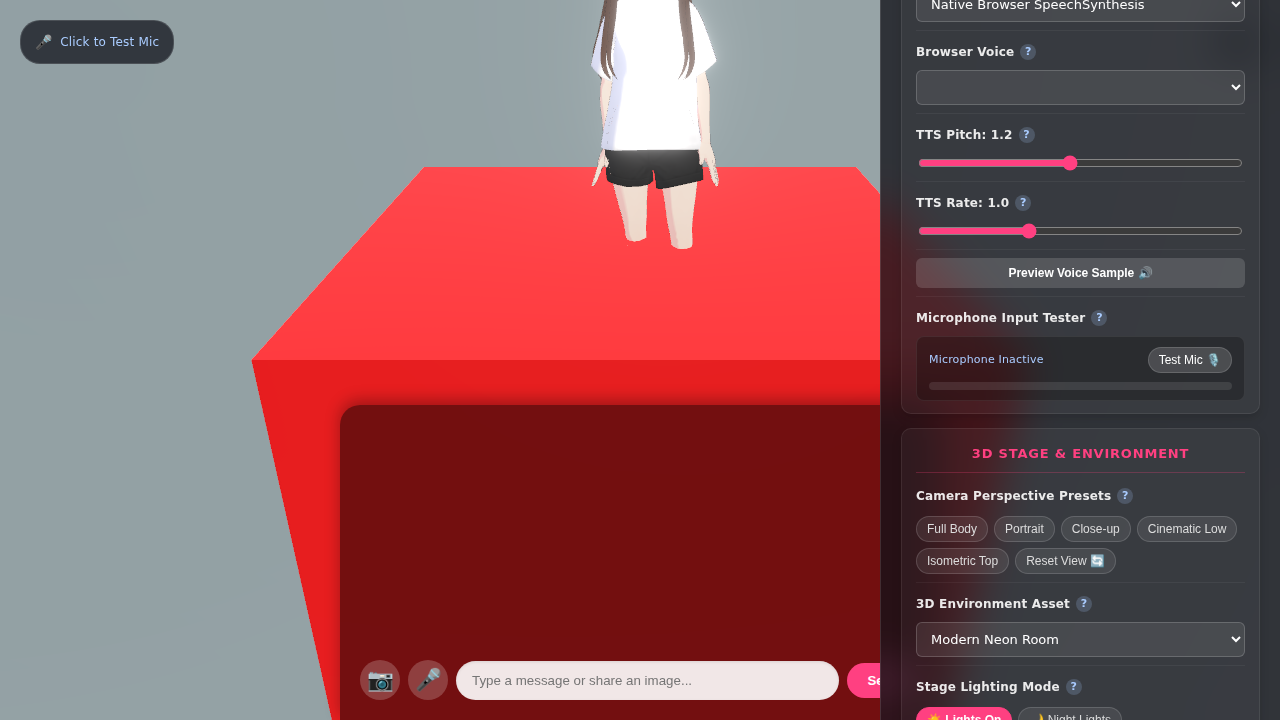
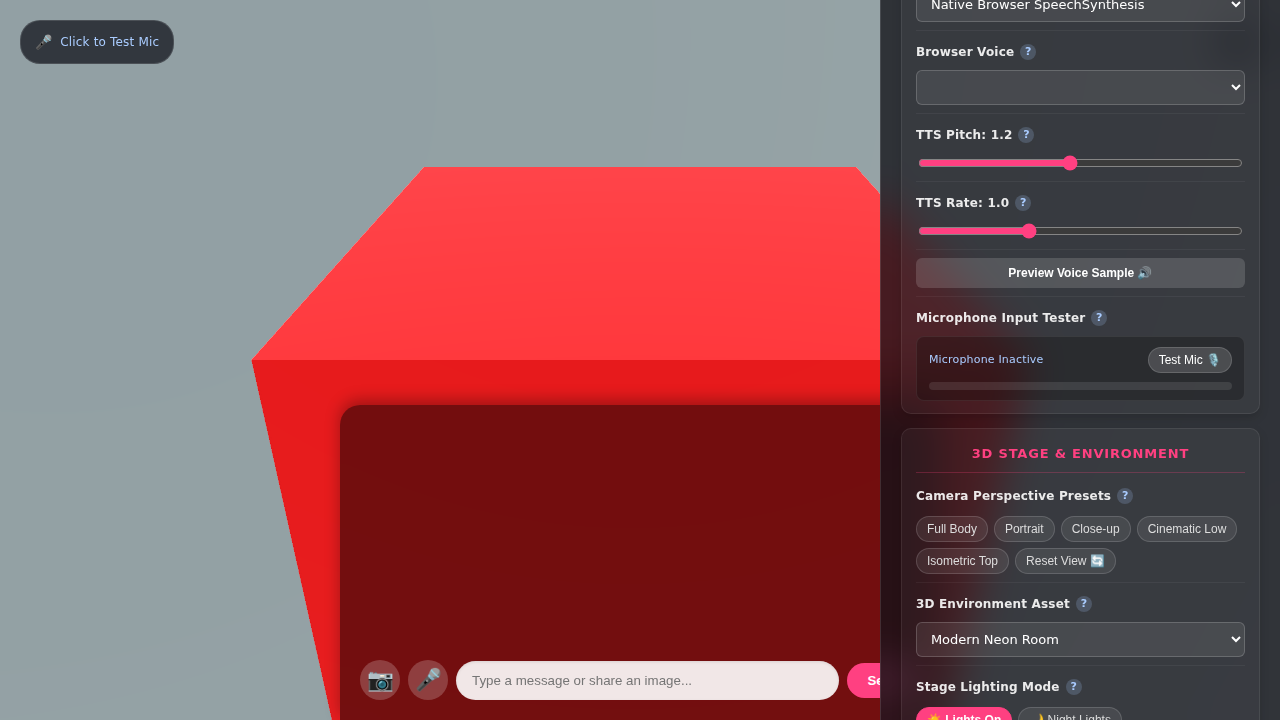
feat: v0.39.0 - Visual Drop Flash Ripple & Environment Camera Showcase
Added animated fullscreen radial drop flash overlay (.drop-success-flash) on successful drop ingestion of .vrm, .glb, and image files in App.jsx/App.css. Implemented automated camera showcase transition upon 3D environment loading and updated all documentation.

diff --git a/client/src/App.jsx b/client/src/App.jsx
@@ -49,8 +49,14 @@ function App() {
 
   // Drag-and-Drop and Toast State
   const [isDraggingFile, setIsDraggingFile] = useState(false);
+  const [dropFlash, setDropFlash] = useState(false);
   const [toastMessage, setToastMessage] = useState(null);
   const dragCounterRef = useRef(0);
+
+  const triggerDropFlash = () => {
+    setDropFlash(true);
+    setTimeout(() => setDropFlash(false), 700);
+  };
 
   const showToast = (msg, duration = 3000) => {
     setToastMessage(msg);
@@ -528,6 +534,7 @@ You can spawn visual particles using [effect:sparkle] and clear them with [effec
         size: (file.size / 1024).toFixed(0) + ' KB',
         type: file.type.split('/')[1]?.toUpperCase() || 'IMAGE'
       });
+      triggerDropFlash();
       // Suggest default question prompt if field is blank
       setInput(prev => prev.trim() ? prev : "What do you see in this picture?");
       showToast(`📷 ${file.name} attached! Hit Send to analyze.`);
@@ -567,6 +574,7 @@ You can spawn visual particles using [effect:sparkle] and clear them with [effec
         setCustomAvatarMeta(meta);
         setHasCustomAvatar(true);
         setAvatarMode('custom');
+        triggerDropFlash();
 
         // Celebratory stage effects and greeting
         setCurrentAnimation('wave');
@@ -588,6 +596,11 @@ You can spawn visual particles using [effect:sparkle] and clear them with [effec
       try {
         const envUrl = URL.createObjectURL(file);
         setEnvironmentFile(envUrl);
+        triggerDropFlash();
+
+        // Smooth camera showcase transition when switching environment
+        cameraControlRef.current?.setLookAt(1.2, 1.8, 3.2, 0, 1.0, 0, true);
+
         showToast(`🌐 Custom 3D environment "${file.name}" loaded!`);
       } catch (err) {
         console.error("Drop GLB error:", err);
@@ -841,6 +854,9 @@ You can spawn visual particles using [effect:sparkle] and clear them with [effec
 
   return (
     <div style={{ width: '100vw', height: '100vh', position: 'relative', background: '#222', overflow: 'hidden' }}>
+
+      {/* Fullscreen Success Drop Ripple Flash */}
+      {dropFlash && <div className="drop-success-flash" />}
 
       {/* Drag & Drop Visual HUD Overlay */}
       {isDraggingFile && (

diff --git a/client/src/App.css b/client/src/App.css
@@ -553,6 +553,30 @@
   transform: scale(1.2);
 }
 
+/* Fullscreen Success Drop Ripple Flash Overlay */
+.drop-success-flash {
+  position: absolute;
+  top: 0;
+  left: 0;
+  width: 100vw;
+  height: 100vh;
+  pointer-events: none;
+  z-index: 95;
+  background: radial-gradient(circle, rgba(0, 210, 255, 0.3) 0%, rgba(255, 64, 129, 0.15) 50%, transparent 80%);
+  animation: flash-ripple 0.7s cubic-bezier(0.1, 0.8, 0.2, 1) forwards;
+}
+
+@keyframes flash-ripple {
+  0% {
+    opacity: 0.85;
+    transform: scale(0.9);
+  }
+  100% {
+    opacity: 0;
+    transform: scale(1.15);
+  }
+}
+
 /* Full Viewport Drag and Drop Overlay */
 .drop-overlay {
   position: absolute;

diff --git a/HANDOFF.md b/HANDOFF.md
@@ -1,6 +1,9 @@
-# Session Handoff - v0.38.1
+# Session Handoff - v0.39.0
 
 ## Completed Work in this Session
+- **Phase 51: Visual Drop Flash Ripple & Environment Camera Showcase**:
+  - Implemented `.drop-success-flash` fullscreen radial ripple animation in `App.jsx` and `App.css` triggered on successful drop of `.vrm`, `.glb`, or image files.
+  - Added programmatic camera showcase transition (`setLookAt(1.2, 1.8, 3.2, 0, 1.0, 0, true)`) when dropping new 3D environment models.
 - **UI Category Harmonization & Component Hygiene (v0.38.1)**:
   - Cleaned up category grouping in `App.jsx`: relocated all 3D lighting, bloom, shadow, and color controls directly inside "3D Stage & Environment".
   - Moved `isHovered` state hook declaration to the top of `Character.jsx` adhering to idiomatic React hook order.

diff --git a/CHANGELOG.md b/CHANGELOG.md
@@ -1,5 +1,10 @@
 # CHANGELOG
 
+## [0.39.0] - Visual Drop Flash Ripple & Environment Camera Showcase
+### Added
+- Added fullscreen visual ripple flash overlay (`.drop-success-flash`) triggered upon successful drop and validation of `.vrm`, `.glb`, or image files in `App.jsx` and `App.css`.
+- Added smooth cinematic camera showcase transition (`setLookAt(1.2, 1.8, 3.2, 0, 1.0, 0, true)`) when a new 3D environment model is dropped onto the viewport.
+
 ## [0.38.1] - UI Category Harmonization & Component Hygiene
 ### Fixed
 - Relocated lighting and postprocessing controls (`Bloom Glow Intensity`, `Ambient Light Brightness`, `Key Light Color`, `Shadow Quality`) from Account & Session into 3D Stage & Environment in `App.jsx`.

diff --git a/ROADMAP.md b/ROADMAP.md
@@ -43,4 +43,5 @@
 - [x] Phase 48: Avatar Hover Cursor & Attentive Gaze Tracking.
 - [x] Phase 49: Multimodal Drag-and-Drop Auto-Prompt & Attachment Badges.
 - [x] Phase 50: Celebratory Avatar Materialization Stage Burst.
-- [ ] Phase 51: Dynamic Ambient Soundscapes & Atmospheric Audio.
+- [x] Phase 51: Visual Drop Flash Ripple & Environment Camera Showcase.
+- [ ] Phase 52: Dynamic Ambient Soundscapes & Atmospheric Audio.

diff --git a/TODO.md b/TODO.md
@@ -41,4 +41,5 @@
 - [x] Avatar hover cursor styling and attentive gaze tracking responsiveness.
 - [x] Multimodal drag-and-drop auto-prompt population and attachment metadata badges.
 - [x] Celebratory avatar materialization stage burst and greeting response.
+- [x] Fullscreen visual drop flash ripple and environment camera showcase.
 - [ ] Atmospheric audio / spatial ambient soundscape generator.

diff --git a/VERSION.md b/VERSION.md
@@ -1,1 +1,1 @@
-0.38.1
+0.39.0
